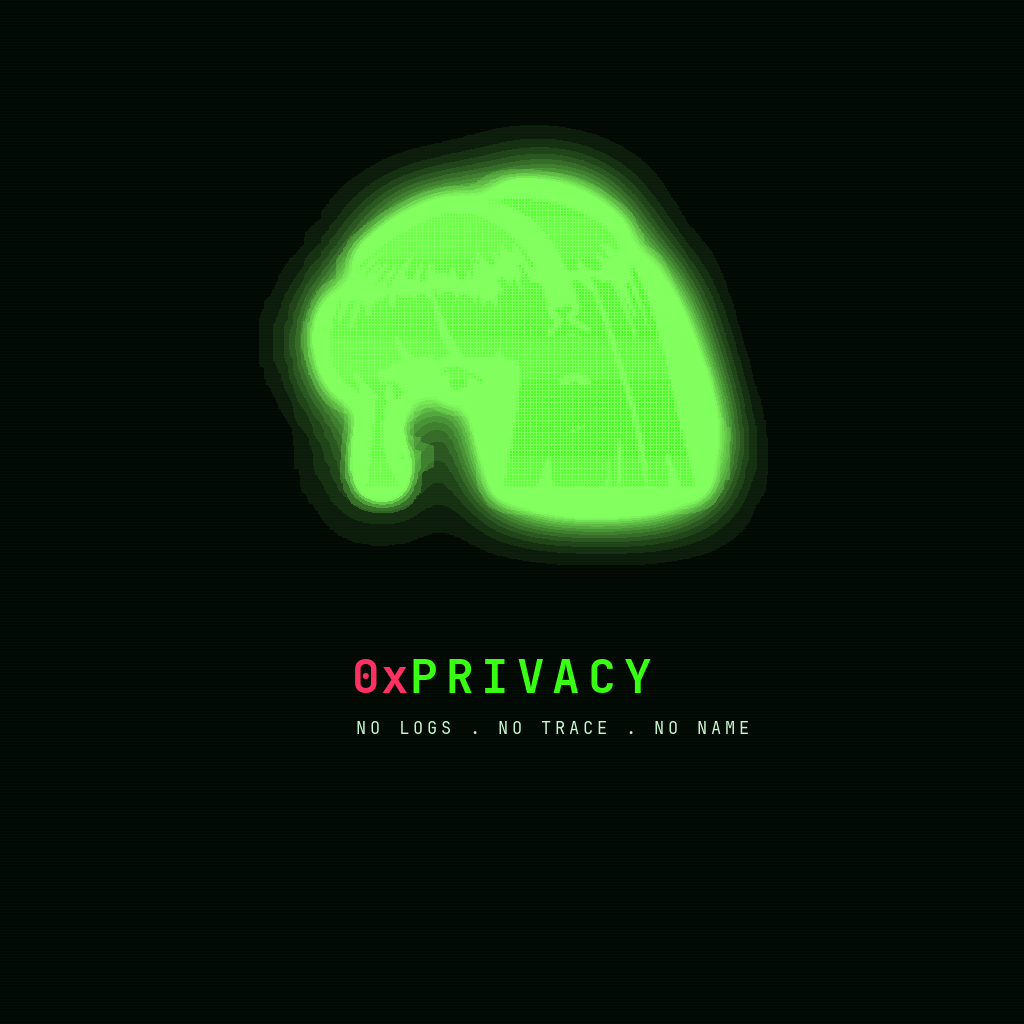
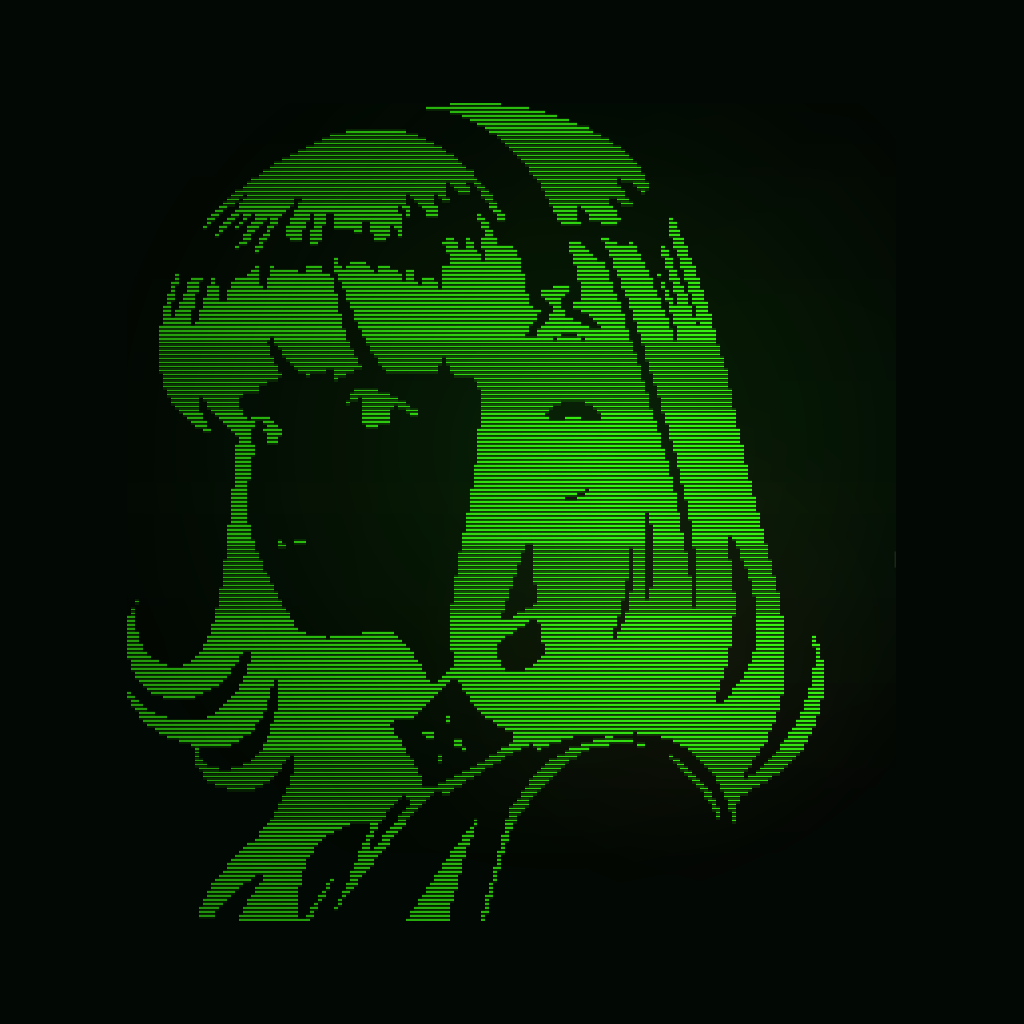
chore(assets): ship the approved set - regenerate front-door art from the plate
The repo's face was still the rejected v4 build: root preview.png and
unlock.png were the glowing, haloed, grid-backed girl, and
screensaver/preview.png was the v3 signal emblem. install.sh requires the
first two, so a fresh clone re-exposed exactly the direction that was
unshipped.

All three are now derived from the approved plate (backgrounds/30-hero-lockup.png)
by the generators that already own that art - never hand-edited:

- preview.png (2560x1440): the plate 1:1, padded with flat INK. Not upscaled,
  not stretched, not redrawn.
- unlock.png / preview-unlock.png (1024x1024): the girl pasted 1:1 from her
  bbox and centred on ink. Scaling her to fit would soften the hatching that
  IS the artwork.
- screensaver/preview.png: frame 0 of the rain loop, so it matches mark.png.
  The v3 emblem it replaces is preserved at
  legacy/v3-signal-temple/preview-emblem.png.

Also:

- .gitignore still listed the loved set (00-03), the hermes-crazy fallback
  and all of legacy/ as ignorable 'legacy v1'. They were only safe because
  they were already tracked; a delete/re-add would have silently dropped
  them. Now: only __pycache__, *.pyc and the nested-repo trap are ignored,
  plus an explicit legacy/ quarantine that keeps legacy/v4-rejected/ and the
  v3 emblem tracked while leaving the superseded v1/v2 trees out.
- install.sh no longer prints 'v3 installed' or names hermes-crazy.mp4 as the
  lead; the runner order is hermes-rain -> hermes-crazy -> hermes-signal.
[…]

Changed region(s): [[0.125, 0.0938, 0.8125, 0.9062]]

diff --git a/tools/make_plate.py b/tools/make_plate.py
@@ -29,6 +29,9 @@ from PIL import Image
 ROOT = Path(__file__).resolve().parents[1]
 HERO = ROOT / "backgrounds" / "0xhermes.png"
 OUT = ROOT / "backgrounds" / "30-hero-lockup.png"
+PREVIEW_OUT = ROOT / "preview.png"
+UNLOCK_OUT = ROOT / "unlock.png"
+UNLOCK_PREVIEW_OUT = ROOT / "preview-unlock.png"
 
 W, H = 2560, 1080
 INK = (2, 8, 4)
@@ -67,7 +70,42 @@ def build() -> Image.Image:
     return plate
 
 
+def render_preview(plate: Image.Image) -> Image.Image:
+    """Theme-picker preview: the approved plate 1:1, centred on ink.
+
+    The plate is 2560x1080 and this canvas is 2560x1440, so the band is
+    padded with flat INK rather than upscaled - no invented pixels, no
+    stretch, and the girl's scanlines stay exactly as they are.
+    """
+    canvas = Image.new("RGB", (2560, 1440), INK)
+    canvas.paste(plate, (0, (1440 - plate.height) // 2))
+    return canvas
+
+
+def render_unlock(plate: Image.Image) -> Image.Image:
+    """Lock surface: the girl 1:1 (no downscale, no glow), centred on ink.
+
+    769x818 of real portrait inside a 1024 square. Scaling her down to fit
+    the width would soften the hatching that IS the artwork, so she is
+    pasted at 1:1 and the rest is ink.
+    """
+    girl = plate.crop(GIRL_BOX)
+    canvas = Image.new("RGB", (1024, 1024), INK)
+    canvas.paste(girl, ((1024 - girl.width) // 2, (1024 - girl.height) // 2))
+    return canvas
+
+
 if __name__ == "__main__":
     out = build()
     out.save(OUT, optimize=True)
     print(f"wrote {OUT.name} ({OUT.stat().st_size // 1024} KiB)")
+
+    preview = render_preview(out)
+    preview.save(PREVIEW_OUT, optimize=True)
+    print(f"wrote {PREVIEW_OUT.name} ({PREVIEW_OUT.stat().st_size // 1024} KiB)")
+
+    unlock = render_unlock(out)
+    unlock.save(UNLOCK_OUT, optimize=True)
+    unlock.save(UNLOCK_PREVIEW_OUT, optimize=True)
+    print(f"wrote {UNLOCK_OUT.name} + {UNLOCK_PREVIEW_OUT.name} "
+          f"({UNLOCK_OUT.stat().st_size // 1024} KiB)")

diff --git a/tools/make_saver.py b/tools/make_saver.py
@@ -33,6 +33,7 @@ ROOT = Path(__file__).resolve().parents[1]
 BASE = ROOT / "backgrounds" / "30-hero-lockup.png"
 OUT = ROOT / "screensaver" / "hermes-rain.mp4"
 POSTER = ROOT / "screensaver" / "mark.png"
+PREVIEW = ROOT / "screensaver" / "preview.png"
 
 W, H = 2560, 1080
 FRAMES, FPS = 144, 12
@@ -103,6 +104,7 @@ def main() -> int:
             img = frame(base, tiles, i)
             if i == 0:
                 img.save(POSTER, optimize=True)
+                img.save(PREVIEW, optimize=True)
             proc.stdin.write(img.tobytes())
     except BrokenPipeError:
         pass

diff --git a/README.md b/README.md
@@ -38,20 +38,47 @@ omarchy theme bg next
 into `~/.local/bin`, and wires the local-bin preference the idle timer uses. It
 never changes your idle timeout.
 
-## Wallpapers
+## Asset catalog
 
-| File | Character |
+**Favorites** — the approved set. 2560×1080 unless noted.
+
+| File | Size | Source | What it is |
+|---|---|---|---|
+| `backgrounds/0xhermes.png` | 2560×1080 | original | the hero: girl + `0x PRIVACY` lockup (picker anchor) |
+| `backgrounds/00-with-logo.png` | 2560×1080 | original | byte-identical to `0xhermes.png` |
+| `backgrounds/01-no-logo.png` | 2560×1080 | original | hero, girl only |
+| `backgrounds/02-wordmark.png` | 2560×1080 | original | wordmark plate |
+| `backgrounds/03-cipher-storm.png` | 2560×1080 | original | `TRUST NOTHING · VERIFY EVERYTHING` variant |
+| `backgrounds/30-hero-lockup.png` | 2560×1080 | `tools/make_plate.py` | hero with the rule flushed under the wordmark |
+| `screensaver/hermes-rain.mp4` | 2560×1080, 12 fps, 12 s | `tools/make_saver.py` | **lead loop** — the plate with margin rain, CRT sweep, breathing rule |
+| `screensaver/hermes-crazy.mp4` | 1920×1080, 12 fps, 6 s | original | loved fallback (upscaled on this panel) |
+| `screensaver/mark.png` | 2560×1080 | `tools/make_saver.py` | poster — frame 0 of the rain loop |
+
+**Alternates** — kept and installed as fallbacks, not the approved look.
+
+| File | Size | What it is |
+|---|---|---|
+| `screensaver/hermes-signal.mp4` | 2560×1080, 12 fps, 12 s | v3 signal-temple loop, third fallback |
+| `backgrounds/10-signal-temple.png` | 2560×1080 | v3 signal-temple plate |
+| `backgrounds/11`–`13-*.png` | 2560×1080 | the rest of the v3 plates |
+
+**Derived branding** — regenerated from the plate, never hand-edited.
+
+| File | Size | What it is |
+|---|---|---|
+| `preview.png` | 2560×1440 | picker preview: the plate 1:1, ink-padded (never upscaled) |
+| `unlock.png`, `preview-unlock.png` | 1024×1024 | lock surface: the girl 1:1, centred on ink |
+| `screensaver/preview.png` | 2560×1080 | poster copy (frame 0) |
+
+**Quarantined** — tracked, so the lineage stays recoverable, never installed.
+
+| File | What it is |
 |---|---|
-| `0xhermes.png` | the hero: girl + `0x PRIVACY` lockup (picker anchor) |
-| `00-with-logo.png` | hero with the logo |
-| `01-no-logo.png` | hero, girl only |
-| `02-wordmark.png` | wordmark plate |
-| `03-cipher-storm.png` | `TRUST NOTHING · VERIFY EVERYTHING` variant |
-| `30-hero-lockup.png` | hero with the rule fixed under the wordmark |
-| `10`–`13-*.png` | the v3 signal-temple plates (kept as alternates) |
+| `legacy/v4-rejected/` | the rejected v4 dot-matrix build: plates, loop, generator |
+| `legacy/v3-signal-temple/preview-emblem.png` | the v3 emblem that `screensaver/preview.png` used to be |
 
-`preview.png` (2560×1440) and `unlock.png`/`preview-unlock.png` (1024²) are
-generated alongside.
+Photo-derived wallpapers, `cage.mp4` and `screensaver/plates/` are excluded on
+purpose — they are not the approved art and are not installed.
 
 ## Screensaver
 
@@ -73,13 +100,16 @@ Details and the file map: `screensaver/README.md`.
 ## Rebuild
 
 ```bash
-python3 tools/make_plate.py              # backgrounds/30-hero-lockup.png
+python3 tools/make_plate.py              # 30-hero-lockup.png + preview/unlock art
+python3 tools/make_saver.py              # hermes-rain.mp4 + mark.png + preview.png
 ```
 
-The plate is built from the hero's own pixels with Pillow, so it can only be
-as sharp as the hero — there is no higher-resolution source. Fonts:
-JetBrains Mono Nerd Font (`/usr/share/fonts/TTF`), DejaVu Sans Mono as the
-fallback.
+`make_plate.py` pastes the girl's real pixels out of `backgrounds/0xhermes.png`
+at 1:1 and only fixes the rule under the wordmark, so the plate can only be as
+sharp as the hero — there is no higher-resolution source. `make_saver.py` uses
+that plate as its base frame and moves rain, sweep and rule *around* her; it
+never re-renders her. Fonts: JetBrains Mono Nerd Font (`/usr/share/fonts/TTF`),
+DejaVu Sans Mono as the fallback.
 
 ## Notes
 
